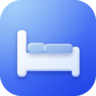
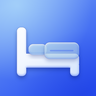
Panel Casa: Sábanas sabe si el cambio ya se hizo
Lee lo que publica la app Sábanas (hito «Sábanas · panel»): marca el
miércoles como hecho, avisa si uno quedó atrasado y usa el icono real
de la app. Sin conectar, sigue calculando el turno por fecha.

Claude-Session: https://claude.ai/code/session_01AfJH9KQ2WoURVtUjQ5cMgb

diff --git a/index.html b/index.html
@@ -346,6 +346,7 @@ h1, h2, h3 { margin: 0; text-wrap: balance; }
 .kv.icon img { width: 30px; height: 30px; flex: none; border-radius: 23%; }
 .kv.icon > span:nth-child(2) { flex: 1; }
 .kv .ok { color: var(--ds-pos); font-weight: 600; }
+.kv .late { color: var(--ds-warn); font-weight: 600; }
 .kv .off { color: var(--ds-ink-3); }
 .kv.done > span:first-child { color: var(--ds-ink-2); text-decoration: line-through; text-decoration-color: var(--ds-ink-3); }
 .mini { width: 20px; height: 20px; flex: none; display: grid; place-items: center; border-radius: 50%; border: 1.5px solid var(--ring); color: #fff; }
@@ -1131,7 +1132,8 @@ const HOME = {
   pagos: { title: 'Pagos · panel', name: 'Pagos del mes' },
   gas: { title: 'Gas · panel', name: 'Balón de gas' },
   capsula: { title: 'Cápsula · panel', name: 'Mi cápsula diaria' },
-  mesadas: { title: 'Mesadas · panel', name: 'Mesadas' }
+  mesadas: { title: 'Mesadas · panel', name: 'Mesadas' },
+  sabanas: { title: 'Sábanas · panel', name: 'Sábanas' }
 };
 const HOME_ORDER = ['pagos', 'gas', 'capsula', 'sabanas', 'mesadas'];
 const PEOPLE = { piti: 'Piti', emi: 'Emi' };
@@ -1322,13 +1324,27 @@ function capInfo(c, today) {
     end: left > 0 ? addDays(today, took ? left : left - 1) : ''
   };
 }
+function turnOf(k) { const w = Math.round(diffDays(SHEETS.start, k) / 7); return SHEETS.order[((w % 2) + 2) % 2]; }
+// Sábanas: el turno se calcula por fecha. Si la app Sábanas está conectada, además se sabe qué miércoles ya se marcaron.
 function sheetsInfo(today) {
-  const delta = (3 - new Date(utcOf(today)).getUTCDay() + 7) % 7;   // días hasta el próximo miércoles (0 si es hoy)
-  const next = addDays(today, delta);
-  const w = Math.round(diffDays(SHEETS.start, next) / 7);
-  function whoAt(i) { return SHEETS.order[(((w + i) % 2) + 2) % 2]; }
-  const list = [0, 1, 2, 3].map(function (i) { return { date: addDays(next, 7 * i), who: whoAt(i) }; });
-  return { date: next, who: whoAt(0), today: delta === 0, tomorrow: delta === 1, list: list };
+  const raw = S.home.sabanas, data = raw && Array.isArray(raw.hechos) ? raw : null, done = {};
+  if (data) data.hechos.forEach(function (k) { if (validDate(String(k))) done[k] = 1; });
+  const wed = addDays(today, (3 - new Date(utcOf(today)).getUTCDay() + 7) % 7);   // este miércoles (hoy si es miércoles)
+  const pend = data && validDate(String(data.pend || '')) ? data.pend : '';
+  const late = pend && pend < today ? pend : '';                                 // un miércoles pasado sin marcar
+  const todayDone = wed === today && !!done[today];
+  const next = late || (todayDone ? addDays(today, 7) : wed);
+  const dates = [];
+  if (late) dates.push(late);
+  for (let i = 0; dates.length < 4; i++) { const d = addDays(wed, 7 * i); if (d !== late) dates.push(d); }
+  const list = dates.map(function (d) {
+    return { date: d, who: turnOf(d), done: !!done[d], late: !done[d] && d < today };
+  });
+  const tomorrow = addDays(today, 1);
+  return { connected: !!data, at: data ? +data.at || 0 : 0, date: next, who: turnOf(next), late: !!late,
+    today: !late && next === today, tomorrow: !late && next === tomorrow, todayDone: todayDone, list: list,
+    // lo de hoy o mañana, aunque haya otro atrasado
+    todayPending: wed === today && !done[today], tomorrowPending: wed === tomorrow && !done[tomorrow], wedWho: turnOf(wed) };
 }
 function mesInfo(m, today) {
   if (!m) return null;
@@ -1359,8 +1375,9 @@ function attention(today) {
   }
   if (p && p.stale) out.push({ tone: 'warn', w: 3, text: 'Empieza el mes nuevo en Pagos del mes' });
   else if (p && p.pend.length) out.push({ tone: 'warn', w: 5, text: p.pend.length === 1 ? 'Falta 1 pago: ' + p.pend[0].t : 'Faltan ' + p.pend.length + ' pagos del mes' });
-  if (sh.today) out.push({ tone: 'info', w: 5, text: 'Hoy toca cambiar sábanas: ' + PEOPLE[sh.who] });
-  else if (sh.tomorrow) out.push({ tone: 'info', w: 7, text: 'Mañana toca cambiar sábanas: ' + PEOPLE[sh.who] });
+  if (sh.late) out.push({ tone: 'warn', w: 4, text: 'Sábanas atrasadas: le tocaba a ' + PEOPLE[sh.who] + ' el miércoles ' + fmtDay(sh.date) });
+  if (sh.todayPending) out.push({ tone: 'info', w: 5, text: 'Hoy toca cambiar sábanas: ' + PEOPLE[sh.wedWho] });
+  else if (sh.tomorrowPending) out.push({ tone: 'info', w: 7, text: 'Mañana toca cambiar sábanas: ' + PEOPLE[sh.wedWho] });
   return out.sort(function (a, b) { return a.w - b.w; });
 }
 
@@ -1475,8 +1492,11 @@ function renderHome(today) {
       h += homeRow(k, 'capsula', HOME.capsula.name, esc(sub), tone && !c.ordered ? tone : '', '<span class="r-big num ' + tone + '">' + c.left + '</span><span class="r-unit">' + plural(c.left, 'queda', 'quedan') + '</span>');
     } else if (k === 'sabanas') {
       const s = sheetsInfo(today);
-      const sub = s.today ? 'Hoy, miércoles ' + fmtDay(s.date) : s.tomorrow ? 'Mañana, miércoles ' + fmtDay(s.date) : 'Miércoles ' + fmtDay(s.date);
-      h += homeRow(k, 'sabanas', 'Sábanas', sub, s.today ? 'warn' : '', '<span class="who ' + s.who + '">' + PEOPLE[s.who] + '</span>');
+      let sub = s.late ? 'Atrasado: miércoles ' + fmtDay(s.date)
+        : s.todayDone ? 'Hoy: hecho · próximo, miércoles ' + fmtDay(s.date)
+        : s.today ? 'Hoy, miércoles ' + fmtDay(s.date) : s.tomorrow ? 'Mañana, miércoles ' + fmtDay(s.date) : 'Miércoles ' + fmtDay(s.date);
+      if (!s.connected) sub += ' · sin conectar';
+      h += homeRow(k, 'sabanas', 'Sábanas', esc(sub), s.late || s.today ? 'warn' : '', '<span class="who ' + s.who + '">' + PEOPLE[s.who] + '</span>');
     } else if (k === 'mesadas') {
       const m = mesInfo(S.home.mesadas, today);
       if (!m) { h += offRow(k, 'mesadas', HOME.mesadas.name); return; }
@@ -1544,11 +1564,14 @@ function sheetBody(kind, arg) {
     if (arg === 'sabanas') {
       const s = sheetsInfo(today);
       let h = head('sabanas', 'Sábanas', 'Se cambian los miércoles, una vez cada una');
-      h += '<ul class="list">' + s.list.map(function (x, i) {
+      h += '<ul class="list">' + s.list.map(function (x) {
         const when = x.date === today ? 'Hoy' : x.date === addDays(today, 1) ? 'Mañana' : cap1(weekday(x.date)) + ' ' + fmtDay(x.date);
-        return kv(esc(when) + (i === 0 ? '<small>Próximo cambio</small>' : ''), '<span class="who ' + x.who + '">' + PEOPLE[x.who] + '</span>');
+        const st = !s.connected ? (x.date === s.date ? 'Próximo cambio' : '')
+          : x.done ? '<span class="ok">Hecho</span>' : x.late ? '<span class="late">Atrasado</span>' : x.date === s.date ? 'Próximo cambio' : 'Pendiente';
+        return '<li class="kv"><span>' + esc(when) + (st ? '<small>' + st + '</small>' : '') + '</span><span><span class="who ' + x.who + '">' + PEOPLE[x.who] + '</span></span></li>';
       }).join('') + '</ul>';
-      return h + '<p class="hint">El turno se calcula solo, a partir del miércoles 7 de octubre (Piti).</p>';
+      h += '<p class="hint">El turno se calcula a partir del miércoles 7 de octubre (Piti).' + (s.connected ? ' Los cambios hechos se marcan en la app Sábanas; publicó ' + esc(fmtWhen(s.at)) + '.' : '') + '</p>';
+      return s.connected ? h : h + '<h3 class="grp">Saber si ya se hizo</h3>' + connectHelp('sabanas');
     }
     const raw = S.home[arg];
     if (!raw) return head(arg, HOME[arg].name, 'Sin datos todavía') + connectHelp(arg);
@@ -1625,10 +1648,10 @@ function settingsBody() {
   h += '<h3 class="grp">Apps de la casa</h3><ul class="list">' + Object.keys(HOME).map(function (k) {
     const st = S.home[k];
     return '<li class="kv icon"><img src="icons/apps/' + k + '.png" alt=""><span>' + HOME[k].name + '<small>' + (st && st.at ? 'Publicó ' + esc(fmtWhen(+st.at)) : 'Aún no publica') + '</small></span><span>' + (st ? '<span class="ok">Conectada</span>' : '<span class="off">Sin conectar</span>') + '</span></li>';
-  }).join('') + '<li class="kv icon"><img src="icons/apps/sabanas.png" alt=""><span>Sábanas<small>Miércoles alternados, se calcula solo</small></span><span><span class="ok">Lista</span></span></li></ul>';
+  }).join('') + '</ul>';
   if (homeConn()) {
     h += '<button type="button" class="btn tonal block" data-act="copycode">Copiar código para las apps</button>';
-    h += '<p class="hint">Luego, en Pagos del mes, Balón de gas, Mi cápsula diaria y Mesadas: baja hasta «Panel Casa», toca «Pegar código» y listo. Desde ahí, cada cambio se ve en el panel.</p>';
+    h += '<p class="hint">Luego, en Pagos del mes, Balón de gas, Mi cápsula diaria, Mesadas y Sábanas: baja hasta «Panel Casa», toca «Pegar código» y listo. Desde ahí, cada cambio se ve en el panel.</p>';
   } else {
     h += '<p class="hint">Cuando conectes FAN, aquí aparecerá el código para conectar las apps de la casa.</p>';
   }

diff --git a/herramientas/panel-casa.js b/herramientas/panel-casa.js
@@ -1,6 +1,6 @@
 /*PANEL:START*/
 /* Panel Casa: publica en el buzón privado de GitHub un resumen de esta app, para que Panel Casa lo muestre.
-   Es el mismo código en Pagos del mes, Balón de gas, Mi cápsula diaria y Mesadas. No se edita en la app:
+   Es el mismo código en Pagos del mes, Balón de gas, Mi cápsula diaria, Mesadas y Sábanas. No se edita en la app:
    se copia desde casa/herramientas/panel-casa.js con  python3 herramientas/conectar-apps.py <carpeta de las apps>
    Uso: PanelCasa.init({ app, title, mount, summary }) al abrir la app y PanelCasa.changed() cada vez que se guarda. */
 var PanelCasa = (function () {

diff --git a/sw.js b/sw.js
@@ -1,5 +1,5 @@
 // Service worker mínimo: deja la app disponible sin conexión.
-const CACHE = 'casa-v1';
+const CACHE = 'casa-v2';
 const ASSETS = [
   './',
   'index.html',

diff --git a/herramientas/conectar-apps.py b/herramientas/conectar-apps.py
@@ -1,7 +1,7 @@
 #!/usr/bin/env python3
 """Conecta las apps de la casa con Panel Casa.
 
-A Pagos del mes (pagos), Balón de gas (gas), Mi cápsula diaria (receta) y Mesadas (hijas) les agrega:
+A Pagos del mes (pagos), Balón de gas (gas), Mi cápsula diaria (receta), Mesadas (hijas) y Sábanas (beds) les agrega:
   1. el módulo herramientas/panel-casa.js, que publica el resumen de la app en el buzón (marcas PANEL:START/END);
   2. los estilos de la tarjeta «Panel Casa» (marcas PANEL:CSS:START/END);
   3. el lugar de la tarjeta, al final de la pantalla (<div id="panel-casa">);
@@ -9,7 +9,9 @@ A Pagos del mes (pagos), Balón de gas (gas), Mi cápsula diaria (receta) y Mesa
 
 Se puede ejecutar de nuevo: reemplaza lo que esté entre las marcas y no repite los avisos.
 
-    python3 herramientas/conectar-apps.py <carpeta con los repositorios pagos, gas, receta e hijas>
+    python3 herramientas/conectar-apps.py <carpeta con los repositorios pagos, gas, receta, hijas y beds>
+
+Sábanas (beds) se publica desde la rama gh-pages: esa carpeta debe tener esa rama.
 """
 import pathlib, re, sys
 
@@ -92,6 +94,17 @@ if (window.PanelCasa) PanelCasa.init({ app: 'capsula', title: 'Cápsula · panel
     var tot = { piti: 0, emi: 0 }, mes = { ym: ym, piti: 0, emi: 0 };
     items.forEach(function (r) { if (tot[r.who] == null) return; tot[r.who] += r.amount; if (r.date.slice(0, 7) === ym) mes[r.who] += r.amount; });
     return { tot: tot, mes: mes, ult: items.slice(0, 3).map(function (r) { return { w: r.who, m: r.amount, s: r.subject, d: r.date }; }) };
+  } });""",
+    },
+    'beds': {
+        'host_after': '<main class="app" id="app" aria-live="polite"></main>\n',
+        'save': ("    localStorage.setItem(LS_KEY, JSON.stringify(Array.from(done)));\n  }",
+                 "    localStorage.setItem(LS_KEY, JSON.stringify(Array.from(done)));\n    " + HOOK + "\n  }"),
+        'init': """  // Panel Casa: los últimos miércoles marcados y el primero que falta
+  if (window.PanelCasa) PanelCasa.init({ app: 'sabanas', title: 'Sábanas · panel', mount: document.getElementById('panel-casa'), summary: function () {
+    var list = Array.from(done).filter(function (k) { return /^\\d{4}-\\d{2}-\\d{2}$/.test(k); }).sort();
+    var p = firstPending();
+    return { hechos: list.slice(-12), pend: p ? p.k : '' };
   } });""",
     },
 }

diff --git a/README.md b/README.md
@@ -12,14 +12,14 @@ Es un panel de lectura. No guarda datos propios: muestra lo que cada app publica
   - **Pagos del mes**: cuántos van hechos y cuáles faltan. Avisa si la lista sigue con el título de un mes que ya pasó.
   - **Balón de gas**: días del balón en uso, fecha estimada de cambio según el promedio y si hay reserva.
   - **Mi cápsula diaria**: cuántas quedan, hasta qué día alcanzan, si la de hoy ya se tomó y si la receta está pedida.
-  - **Sábanas**: el próximo miércoles y a quién le toca. Se calcula solo (el 7 de octubre de 2026 le tocó a Piti, y desde ahí se alternan).
+  - **Sábanas**: el próximo miércoles y a quién le toca (el 7 de octubre de 2026 le tocó a Piti, y desde ahí se alternan). Con la app Sábanas conectada, además sabe si el cambio ya se hizo y avisa si uno quedó atrasado.
   - **Mesadas**: lo entregado en el mes a Piti y a Emi, con el total acumulado y los últimos aportes.
 - **Sin conexión**: si no se puede leer el buzón, muestra lo último que se leyó.
 
 ## Conectar
 
 1. **Cuentas**: en FAN toca «Copiar el script del widget» y pégalo en Panel Casa → Conexiones. FAN, Master y LiderBCI comparten el buzón, así que con el de FAN quedan las tres. Copec tiene su propio buzón: repite el paso con el script del widget de Copec.
-2. **Apps de la casa**: en Conexiones toca «Copiar código para las apps». Luego, en Pagos del mes, Balón de gas, Mi cápsula diaria y Mesadas, baja hasta «Panel Casa» y toca «Pegar código». Desde ese momento, cada cambio en esas apps se publica en el buzón (en un hito con el nombre de la app, por ejemplo «Gas · panel») y el panel lo muestra.
+2. **Apps de la casa**: en Conexiones toca «Copiar código para las apps». Luego, en Pagos del mes, Balón de gas, Mi cápsula diaria, Mesadas y Sábanas, baja hasta «Panel Casa» y toca «Pegar código». Desde ese momento, cada cambio en esas apps se publica en el buzón (en un hito con el nombre de la app, por ejemplo «Gas · panel») y el panel lo muestra.
 
 Los tokens quedan guardados solo en el iPhone. «Quitar conexiones» los borra.
 
@@ -43,3 +43,4 @@ Los tokens quedan guardados solo en el iPhone. «Quitar conexiones» los borra.
   - `Gas · panel`: `{ app: "gas", v, at, open: fecha de apertura, avg: días promedio, kg, res: balones de reserva }`
   - `Cápsula · panel`: `{ app: "capsula", v, at, left, total, last: fecha de la última toma, ordered: fecha en que se pidió la receta }`
   - `Mesadas · panel`: `{ app: "mesadas", v, at, tot: { piti, emi }, mes: { ym, piti, emi }, ult: [{ w, m, s, d }] }`
+  - `Sábanas · panel`: `{ app: "sabanas", v, at, hechos: [los últimos miércoles marcados], pend: el primer miércoles sin marcar }`
